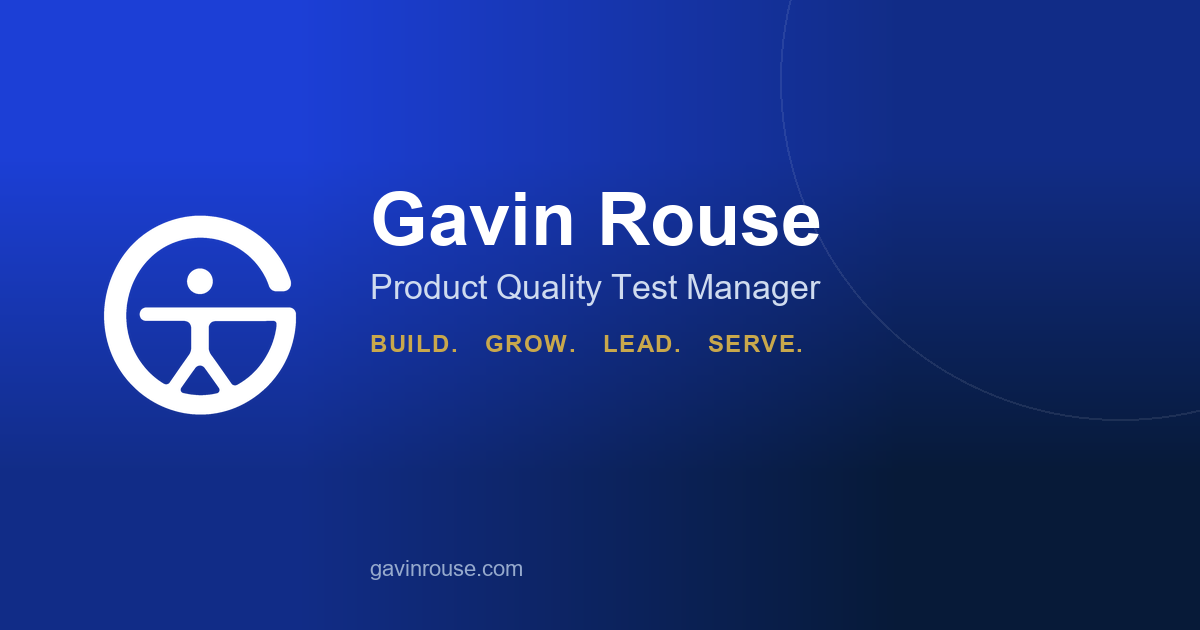
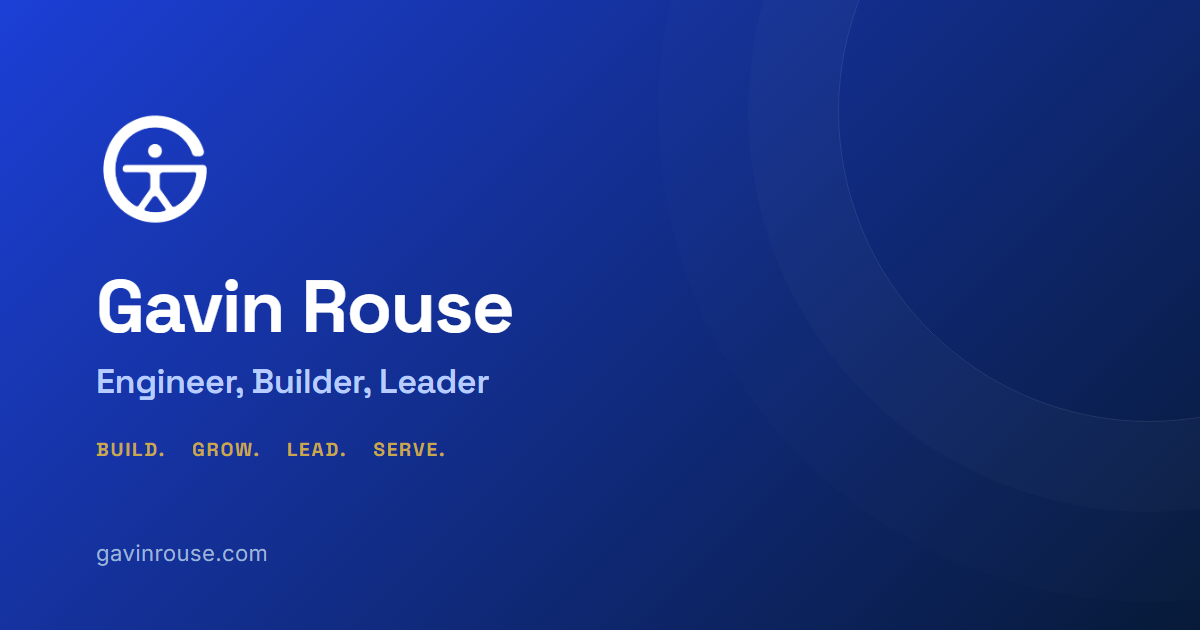
Rework search/social preview: title, description, and OG image
The old title/description leaned on job title alone and the OG image
was stale. Retitles to "Engineer, Builder, Leader" matching the
site's actual multi-domain framing, tightens the meta description
to match, and rebuilds og_image.png to match current branding and
copy.

diff --git a/index.html b/index.html
@@ -3,8 +3,8 @@
 <head>
   <meta charset="UTF-8">
   <meta name="viewport" content="width=device-width, initial-scale=1.0">
-  <title>Gavin Rouse — Product Quality Test Manager</title>
-  <meta name="description" content="Building better products, teams, and communities. Engineer by trade, builder by nature — I build, I grow, I lead, I serve.">
+  <title>Gavin Rouse — Engineer, Builder, Leader</title>
+  <meta name="description" content="Engineer, builder, and civic leader working to build better products, teams, and communities. I build, I grow, I lead, I serve.">
   <meta name="author" content="Gavin Rouse">
   <script type="application/ld+json">
   {
@@ -13,7 +13,7 @@
     "name": "Gavin Rouse",
     "url": "https://gavinrouse.com",
     "jobTitle": "Product Quality Test Manager",
-    "description": "Engineer by trade. Builder by nature.",
+    "description": "Engineer, builder, and civic leader working to build better products, teams, and communities.",
     "address": {
       "@type": "PostalAddress",
       "addressLocality": "Pasco",
@@ -23,8 +23,8 @@
     "sameAs": []
   }
   </script>
-  <meta property="og:title" content="Gavin Rouse — Product Quality Test Manager">
-  <meta property="og:description" content="Building better products, teams, and communities. I build, I grow, I lead, I serve.">
+  <meta property="og:title" content="Gavin Rouse — Engineer, Builder, Leader">
+  <meta property="og:description" content="Engineer, builder, and civic leader working to build better products, teams, and communities. I build, I grow, I lead, I serve.">
   <meta property="og:type" content="website">
   <meta property="og:url" content="https://gavinrouse.com/">
   <meta property="og:image" content="https://gavinrouse.com/og_image.png">
@@ -32,8 +32,8 @@
   <meta property="og:image:height" content="630">
   <link rel="canonical" href="https://gavinrouse.com/">
   <meta name="twitter:card" content="summary_large_image">
-  <meta name="twitter:title" content="Gavin Rouse — Product Quality Test Manager">
-  <meta name="twitter:description" content="Building better products, teams, and communities. I build, I grow, I lead, I serve.">
+  <meta name="twitter:title" content="Gavin Rouse — Engineer, Builder, Leader">
+  <meta name="twitter:description" content="Engineer, builder, and civic leader working to build better products, teams, and communities. I build, I grow, I lead, I serve.">
   <meta name="twitter:image" content="https://gavinrouse.com/og_image.png">
   <link rel="icon" href="GR%20logo%20transparent.png" type="image/png">
   <link rel="apple-touch-icon" href="GR%20logo%20transparent.png">
